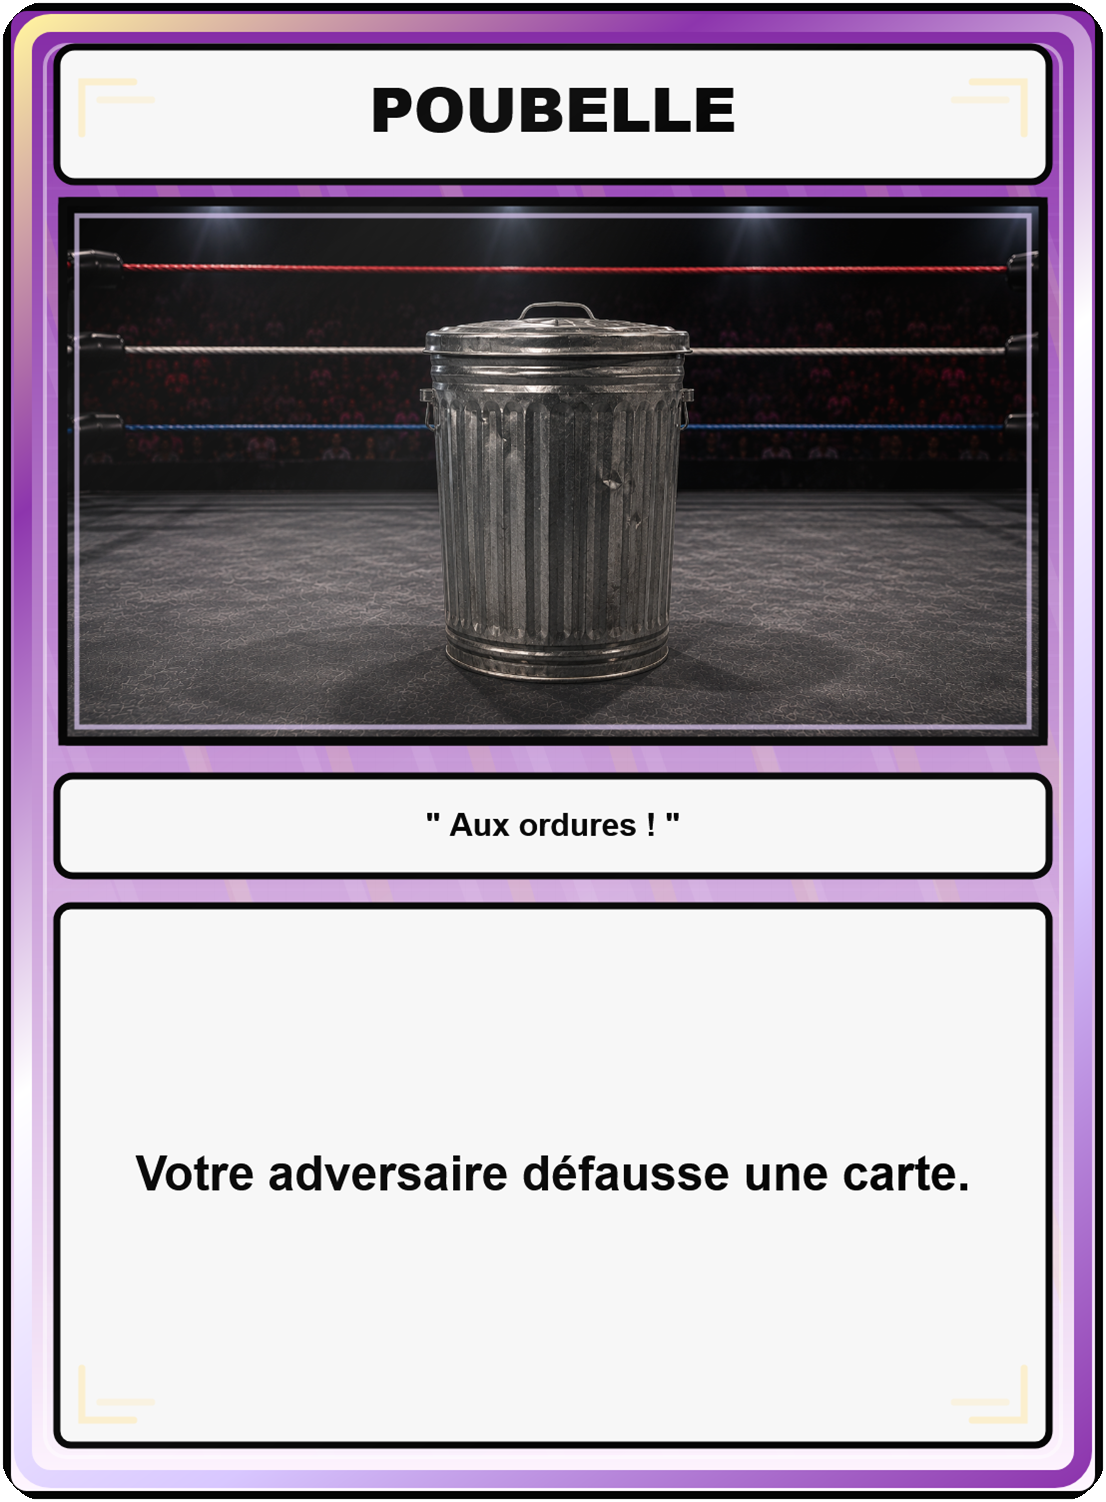
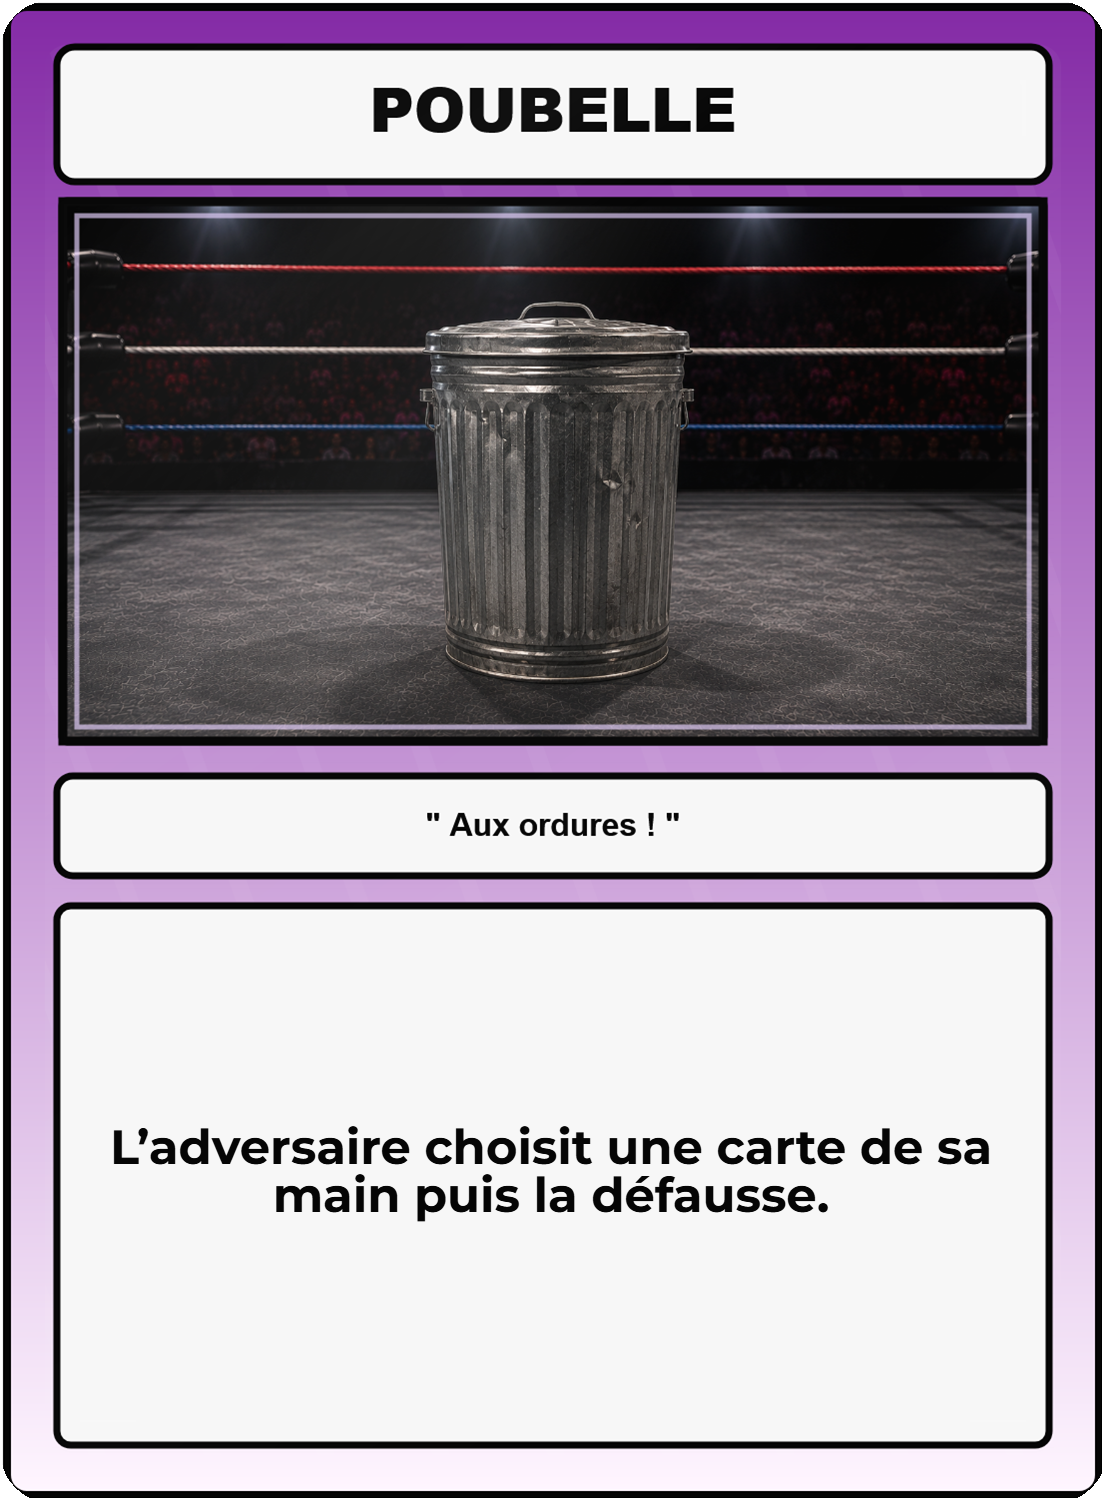
Make Poubelle Standard with targeted discard choice and hide completed challenge replay (0.2.46)

diff --git a/js/game.js b/js/game.js
@@ -3099,10 +3099,10 @@ const CARD_DATA = [
   {
     "key": "rare_objets_poubelle",
     "type": "Objet",
-    "rarity": "Rare",
+    "rarity": "Standard",
     "name": "Poubelle",
     "stats": {},
-    "effect": "Votre adversaire défausse une carte.",
+    "effect": "L’adversaire choisit une carte de sa main puis la défausse.",
     "ability": "opponentDiscard1",
     "renderArt": "assets/card_renders/rare_objets_poubelle.png"
   },
@@ -3545,7 +3545,7 @@ const EFFECT_REGISTRY = {
   objectExtra2: { timing:"manager", text:"Les objets durent 2 tours supplémentaires." },
   objectChoiceForceCharisma2: { timing:"object", text:"Choisissez +2 Force ou +2 Charisme.", choice:true },
   objectChoiceStat1: { timing:"object", text:"Choisissez une statistique : +1.", choice:true },
-  opponentDiscard1: { timing:"object", text:"L'adversaire défausse 1 carte." },
+  opponentDiscard1: { timing:"object", text:"L’adversaire choisit une carte de sa main puis la défausse.", choice:true },
   opponentDiscardRandom1: { timing:"object", text:"L'adversaire défausse 1 carte aléatoire." },
   opponentDiscardChoice1: { timing:"entry", text:"L'adversaire défausse 1 carte de son choix.", choice:true },
   opponentDiscardOnSupport: { timing:"manager", text:"Chaque bonus ou objet adverse force une défausse." },
@@ -5441,7 +5441,7 @@ function chooseRingsiderCards(owner,source,selectedIds=[]){
 
 function requestRingsiderRecovery(owner){
   const source=owner?.man;
-  if(!G||G.over||G.resolving||G.discarding||G.currentTurn!=="player"||owner!==G.player)return;
+  if(!G||G.over||G.resolving||pendingChosenHandDiscard()||G.discarding||G.currentTurn!=="player"||owner!==G.player)return;
   if(source?.ability==="invertedSupport"&&isRingsiderRecoveryAbility(source.originalAbility))return useInvertedRingsider(owner,false);
   if(!source||!isRingsiderRecoveryAbility(source.ability)||owner.managersBlocked)return;
   if(owner.ringsiderDecisionRound===G.round)return;
@@ -6239,7 +6239,7 @@ function applyOnlineSnapshot(snapshot, playerSlot){
   ){
     closeWheelOverlayVisual();
   }
-  if(!G.over&&G.currentTurn==="player")setTimeout(()=>requestRingsiderRecovery(G.player),80);
+  if(!G.over&&!pendingChosenHandDiscard()&&G.currentTurn==="player")setTimeout(()=>requestRingsiderRecovery(G.player),80);
 }
 
 function enterOnlineMatchFromSnapshot(room, playerSlot){
@@ -6270,11 +6270,11 @@ function applyOnlineRoomSnapshot(room, playerSlot){
 }
 
 function queueOnlineSnapshotPublish(){
-  if(!isOnlineMatch()||onlineApplyingRemote||["ace-reveal","die-stat-remote","die-stat-submit"].includes(activeOnlineChoice?.kind)||!onlineDirty)return;
+  if(!isOnlineMatch()||onlineApplyingRemote||["ace-reveal","die-stat-remote","die-stat-submit","hand-discard-remote","hand-discard-submit"].includes(activeOnlineChoice?.kind)||!onlineDirty)return;
   if(typeof window.publishOnlineMatchState!=="function")return;
   clearTimeout(onlinePublishTimer);
   onlinePublishTimer=setTimeout(async()=>{
-    if(!isOnlineMatch()||onlineApplyingRemote||["ace-reveal","die-stat-remote","die-stat-submit"].includes(activeOnlineChoice?.kind)||!onlineDirty)return;
+    if(!isOnlineMatch()||onlineApplyingRemote||["ace-reveal","die-stat-remote","die-stat-submit","hand-discard-remote","hand-discard-submit"].includes(activeOnlineChoice?.kind)||!onlineDirty)return;
     const snapshot=onlineSnapshotFromGame();
     if(!snapshot)return;
     const hash=JSON.stringify(snapshot);
@@ -6292,7 +6292,7 @@ function queueOnlineSnapshotPublish(){
 }
 
 function publishOnlineSnapshotNow(){
-  if(!isOnlineMatch()||onlineApplyingRemote||["die-stat-remote","die-stat-submit"].includes(activeOnlineChoice?.kind))return;
+  if(!isOnlineMatch()||onlineApplyingRemote||["die-stat-remote","die-stat-submit","hand-discard-remote","hand-discard-submit"].includes(activeOnlineChoice?.kind))return;
   if(typeof window.publishOnlineMatchState!=="function")return;
   const snapshot=onlineSnapshotFromGame();
   if(!snapshot)return;
@@ -7839,13 +7839,7 @@ function applyTrackedObjectEffect(owner,opp,c,choice=null){
       break;
     }
     case"opponentDiscard1":{
-      const discarded=[];
-      for(let i=0;i<mult&&opp.hand.length;i++)discarded.push(opp.hand.pop());
-      if(discarded.length){
-        opp.grave.push(...discarded);
-        feedback=`${discarded.length} défausse${discarded.length>1?"s":""} adverse${discarded.length>1?"s":""}`;
-        kind="malus";
-      }
+      requestChosenHandDiscard(opp,c,mult);
       break;
     }
     case"opponentDiscardRandom1":{
@@ -7965,7 +7959,7 @@ function cardFromTaggedState(catState){
 }
 
 function canTagPlayer(){
-  if(!G||G.over||G.resolving||G.discarding||G.tagging)return false;
+  if(!G||G.over||G.resolving||pendingChosenHandDiscard()||G.discarding||G.tagging)return false;
   if(G.currentTurn!=="player")return false;
   const p=G.player;
   if(!p?.cat)return false;
@@ -7974,7 +7968,7 @@ function canTagPlayer(){
 }
 
 function tagPlayer(){
-  if(!G||G.over||G.resolving)return;
+  if(!G||G.over||G.resolving||pendingChosenHandDiscard())return;
   if(G.discarding==="player"){
     playSound("erreur");
     log("Termine la défausse avant de faire un TAG.");
@@ -8143,9 +8137,7 @@ function applyEffectUntracked(owner,opp,c){
       break;
     }
     case"opponentDiscard1":{
-      const discarded=[];
-      for(let i=0;i<mult&&opp.hand.length;i++)discarded.push(opp.hand.pop());
-      if(discarded.length){opp.grave.push(...discarded);feedback=`${discarded.length} défausse${discarded.length>1?"s":""} adverse${discarded.length>1?"s":""}`;kind="malus";}
+      requestChosenHandDiscard(opp,c,mult);
       break;
     }
     case"cancelObjects":{
@@ -8200,8 +8192,67 @@ function applyEffectUntracked(owner,opp,c){
   }
 }
 
+// Poubelle: the affected player owns the choice, even on the other turn.
+function pendingChosenHandDiscard(){
+  return G?.wheelRerollEvent?.kind==="hand-discard";
+}
+
+function requestChosenHandDiscard(target,source,count=1){
+  count=Math.min(target.hand.length,Math.max(0,Math.floor(count)));
+  if(!count)return;
+  if(target.side==="ai"&&!isOnlineMatch()){
+    for(let i=0;i<count;i++){
+      const cats=target.hand.filter(card=>card.type==="Catcheur").length;
+      const candidates=target.hand.filter(card=>cats!==1||card.type!=="Catcheur");
+      const chosen=(candidates.length?candidates:target.hand).slice().sort((a,b)=>aiCareerCardScore(a,a.type)-aiCareerCardScore(b,b.type))[0];
+      const [discarded]=target.hand.splice(target.hand.findIndex(card=>card.id===chosen.id),1);
+      target.grave.push(discarded);
+      log(`[EFFET] ${source.name} : ${target.label} choisit de défausser ${discarded.name}.`);
+    }
+    return;
+  }
+  const ctx=isOnlineMatch()?onlineContext():null;
+  const event={id:`discard:${Date.now()}:${Math.random().toString(36).slice(2)}`,kind:"hand-discard",round:G.round,status:"pending",ownerSlot:ctx?localSideToOnlineSlot(target.side):null,resolverSlot:ctx?.playerSlot||null,sourceName:source.name,remaining:count};
+  G.wheelRerollEvent=event;
+  markOnlineDirty();
+  if(target.side==="player")requestChosenHandDiscardDialog(event);
+}
+
+function finishChosenHandDiscard(event,cardId){
+  if(G?.wheelRerollEvent?.id!==event.id)return;
+  const side=isOnlineMatch()?onlineSlotToLocalSide(event.ownerSlot):"player";
+  const target=side==="player"?G.player:G.ai;
+  const index=target.hand.findIndex(card=>card.id===cardId);
+  if(index<0)return;
+  const [card]=target.hand.splice(index,1);target.grave.push(card);
+  log(`[EFFET] ${event.sourceName} : ${target.label} choisit de défausser ${card.name}.`);
+  G.wheelRerollEvent=null;
+  if(event.remaining>1)requestChosenHandDiscard(target,{name:event.sourceName},event.remaining-1);
+  markOnlineDirty();render();
+}
+
+function requestChosenHandDiscardDialog(event){
+  const remote=isOnlineMatch()&&event.resolverSlot!==onlineContext().playerSlot;
+  requestEffectChoice({title:event.sourceName,text:`Choisissez une carte de votre main à défausser.${event.remaining>1?` Encore ${event.remaining} cartes à choisir.`:""}`,choices:G.player.hand.map(card=>({label:card.name,value:card.id})),onlineKind:remote?"hand-discard-remote":"hand-discard",publishOnChoose:!remote,onChoose:async cardId=>{
+    if(G?.wheelRerollEvent?.id!==event.id)return;
+    if(!remote){finishChosenHandDiscard(event,cardId);return;}
+    const token=beginOnlineChoice("hand-discard-submit");
+    try{
+      const room=await window.submitOnlineWheelRerollChoice(event.id,cardId);
+      if(G?.wheelRerollEvent?.id===event.id&&room?.matchState?.wheelRerollEvent)G.wheelRerollEvent=room.matchState.wheelRerollEvent;
+    }catch(error){
+      showSystemToast(error?.message||"Le choix n’a pas pu être envoyé.");
+      if(G?.wheelRerollEvent?.id===event.id&&G.wheelRerollEvent.status==="pending")setTimeout(()=>requestChosenHandDiscardDialog(event),100);
+    }finally{
+      endOnlineChoice(token);
+      const deferred=deferredOnlineRoomSnapshot;deferredOnlineRoomSnapshot=null;
+      if(deferred)applyOnlineRoomSnapshot(deferred.room,deferred.playerSlot);
+    }
+  }});
+}
+
 function playPlayer(idx){
-  if(G.over||G.resolving)return;
+  if(G.over||G.resolving||pendingChosenHandDiscard())return;
   if(G.discarding==="player"){
     discardPlayerCard(idx);
     return;
@@ -8386,8 +8437,9 @@ function aiTurnSequence(){
 
   let i=0;
   const run=()=>{
+    if(pendingChosenHandDiscard()){setTimeout(run,200);return;}
     if(i>=steps.length){
-      setTimeout(endTurn,800);
+      setTimeout(()=>pendingChosenHandDiscard()?run():endTurn(),800);
       return;
     }
     steps[i++]();
@@ -8458,7 +8510,7 @@ function aiPlayOne(type){
 }
 
 function passTurn(){
-  if(G.over||G.resolving)return;
+  if(G.over||G.resolving||pendingChosenHandDiscard())return;
   if(G.discarding==="player")return;
   if(G.currentTurn!=="player")return;
   log("Le Joueur passe.");
@@ -8467,7 +8519,7 @@ function passTurn(){
 }
 
 function resolveRound(){
-  if(G.over||G.resolving)return;
+  if(G.over||G.resolving||pendingChosenHandDiscard())return;
   if(G.discarding==="player")return;
   if(G.currentTurn!=="player")return;
   if(G.tagging==="player"){
@@ -8480,7 +8532,7 @@ function resolveRound(){
 }
 
 function endTurn(){
-  if(G.over||G.resolving||G.discarding)return;
+  if(G.over||G.resolving||G.discarding||pendingChosenHandDiscard())return;
   if(G.tagging){
     if(G.tagging==="player")log("Choisis un catcheur pour terminer le TAG.");
     return;
@@ -9288,6 +9340,7 @@ const REFRESHED_RENDER_ART=new Set([
 
 function renderArtSrc(path){
   const src=String(path||"");
+  if(src==="assets/card_renders/rare_objets_poubelle.png")return `${src}?art=poubelle-standard-20261116`;
   if(src==="assets/card_renders/rare_catcheurs_john_gage.png")return `${src}?art=john-gage-photo-20261116`;
   if(src==="assets/card_renders/rare_objets_masque_halloween.png")return `${src}?art=mask-final-format-1`;
   return REFRESHED_RENDER_ART.has(src) ? `${src}?art=0212-refresh-1` : src;
@@ -9404,6 +9457,7 @@ function requestOnlineWheelRerollChoice(event){
   if(!isOnlineMatch()||!event?.id||G.wheelRerollEvent?.id!==event.id||G.wheelRerollEvent.status!=="pending")return;
   const reroller=wheelRerollerForOnlineEvent(event);
   if(reroller?.side!=="player")return;
+  if(event.kind==="hand-discard")return requestChosenHandDiscardDialog(event);
   if(event.kind==="die-stat")return requestOnlineDieStatChoice(event);
   const source=reroller.man?.ability==="rerollStat"?reroller.man:reroller.cat?.card;
   const overlay=document.getElementById("wheelOverlay");
@@ -9448,6 +9502,9 @@ function requestOnlineWheelRerollChoice(event){
 
 function resumeOnlineWheelReroll(event){
   if(!isOnlineMatch()||!event?.id||event.status!=="resolved"||G.wheelRerollEvent?.id!==event.id)return;
+  if(event.kind==="hand-discard"){
+    finishChosenHandDiscard(event,event.choice);publishOnlineSnapshotNow();return;
+  }
   if(event.kind==="die-stat"){
     if(!STATS.includes(event.choice))return;
     G.wheelRerollEvent={...event,nextStat:event.choice};
@@ -11105,6 +11162,9 @@ function renderChallengeMatchHud(){
 }
 
 function showChallengeResult(title,detail,won=false){
+  const replay=document.getElementById("pinReplayButton");
+  if(replay){replay.hidden=won;replay.disabled=won;replay.style.display=won?"none":"inline-flex";}
+
   const ov=document.getElementById("pinOverlay");
   const count=document.getElementById("pinCount");
   const msg=document.getElementById("pinMessage");

diff --git a/js/roomService.js b/js/roomService.js
@@ -114,6 +114,13 @@ class RoomService {
       if (!room.players?.[playerSlot]) throw new Error("Joueur introuvable.");
       const previousVersion = Number(room.matchState?.version || room.matchState?.updatedAt || 0);
       const dieChoice = room.matchState?.wheelRerollEvent;
+      if (dieChoice?.kind === "hand-discard" && dieChoice.round === matchState?.round) {
+        // The targeted human submits only a card ID. The effect resolver alone
+        // consumes that choice and publishes the resulting hands/graveyards.
+        if (playerSlot !== dieChoice.resolverSlot) return room;
+        if (dieChoice.status === "pending" && matchState?.wheelRerollEvent?.id !== dieChoice.id) return room;
+        if (dieChoice.status === "resolved" && matchState?.wheelRerollEvent?.id === dieChoice.id) return room;
+      }
       if (dieChoice?.kind === "die-stat" && dieChoice.round === matchState?.round) {
         // Only the duel resolver publishes full states during this handoff.
         // The other human submits the statistic through its own transaction.
@@ -188,7 +195,8 @@ class RoomService {
         throw new Error("Cette relance de roulette n'est plus active.");
       }
       if (event.ownerSlot !== playerSlot) throw new Error("Cette relance appartient à l'adversaire.");
-      const allowedChoices = new Set(event.kind === "die-stat" ? ["Force", "Vitesse", "Technique", "Charisme"] : ["reroll", "keep"]);
+      const hand = event.ownerSlot === "p1" ? room.matchState.player?.hand : room.matchState.ai?.hand;
+      const allowedChoices = new Set(event.kind === "hand-discard" ? (hand || []).map(card => card.id) : event.kind === "die-stat" ? ["Force", "Vitesse", "Technique", "Charisme"] : ["reroll", "keep"]);
       if (!allowedChoices.has(choice)) throw new Error("Choix de roulette invalide.");
       const previousVersion = Number(room.matchState?.version || room.matchState?.updatedAt || 0);
       const version = Math.max(previousVersion + 1, Date.now());

diff --git a/js/saveService.js b/js/saveService.js
@@ -40,7 +40,8 @@
   }
   function protectionError(message){return Object.assign(new Error(message),{code:"allstar/save-protection"});}
   const COPY_LIMIT=2;
-  function duplicateValue(key){return {standard:10,rare:50,legende:100,ultime:500}[String(key).split('_')[0]]||0;}
+  // Stable collection key retained after Poubelle moved from Rare to Standard.
+  function duplicateValue(key){return key==='rare_objets_poubelle'?10:({standard:10,rare:50,legende:100,ultime:500}[String(key).split('_')[0]]||0);}
   function convertSurplus(player){
     const counts={...(player.collection||{})},conversions={...(player.cardConversions||{})};let credits=0;
     for(const [key,n] of Object.entries(counts)){

diff --git a/tools/allstar_preflight.js b/tools/allstar_preflight.js
@@ -141,7 +141,7 @@ function verifyRecentEffects() {
   const cards = JSON.parse(read("data/cards.json")).cards;
   const byKey = Object.fromEntries(cards.map(card => [card.key, card]));
   assert(
-    game.includes('["ace-reveal","die-stat-remote","die-stat-submit"].includes(activeOnlineChoice?.kind)')
+    game.includes('["ace-reveal","die-stat-remote","die-stat-submit","hand-discard-remote","hand-discard-submit"].includes(activeOnlineChoice?.kind)')
       && !game.includes("onlineApplyingRemote||activeOnlineChoice||!onlineDirty"),
     "Les choix en ligne restent synchronises pendant la protection Ace Angel"
   );

diff --git a/docs/poubelle-standard-0.2.46.md b/docs/poubelle-standard-0.2.46.md
@@ -1,0 +1,13 @@
+# Poubelle Standard et résultat du Défi ALLSTAR
+
+Poubelle passe en Standard dans tout le jeu. Nouveau texte : « L’adversaire choisit une carte de sa main puis la défausse. » Le joueur ciblé choisit dans sa propre main, même hors de son tour ; l’IA choisit une carte et préserve si possible son dernier catcheur. Batte de baseball reste Rare et aléatoire.
+
+Le gabarit validé de Chaise Standard fournit le cadre, les encarts et la transparence. La photo, le nom et la citation de Poubelle sont conservés ; seul l’effet est composé avec Montserrat embarquée du studio. PNG 1102×1498 ; rafraîchissement du cache PC/mobile. Identifiant historique `rare_objets_poubelle` conservé pour collections/decks/récupérations ; futurs surplus à10crédits, anciens crédits et registre de conversion préservés.
+
+En ligne, le protocole transactionnel de choix existant accepte une défausse : seul le joueur ciblé peut soumettre un identifiant de sa main ; seul le résolveur applique la défausse et publie le nouvel état. Publication obsolète et double validation refusées, choix doublés successifs, actions suspendues pendant le choix.
+
+Après une victoire au Défi ALLSTAR hebdomadaire, le bouton Rejouer est masqué et désactivé. Une défaite le réactive ; la garde existante empêchant de relancer un défi terminé reste présente.
+
+Christmas Blitz reste au stade du cadrage, sans nouveau mode implémenté. Les dernières décisions d’éligibilité sont conservées dans `outputs/allstar-noel-2026/` hors du dépôt.
+
+Validation : test ciblé gameplay/choix/registre/conversion/résultat ; navigateur PC et téléphone avec toucher réel, deux RoomService simulés et résolveur dans chacun des deux emplacements ; verify et tests des sauvegardes. Ces essais n’utilisent aucun compte réel et ne constituent pas un essai humain sur Firebase en production. Aucun déploiement, push ou règle Firebase modifié.
